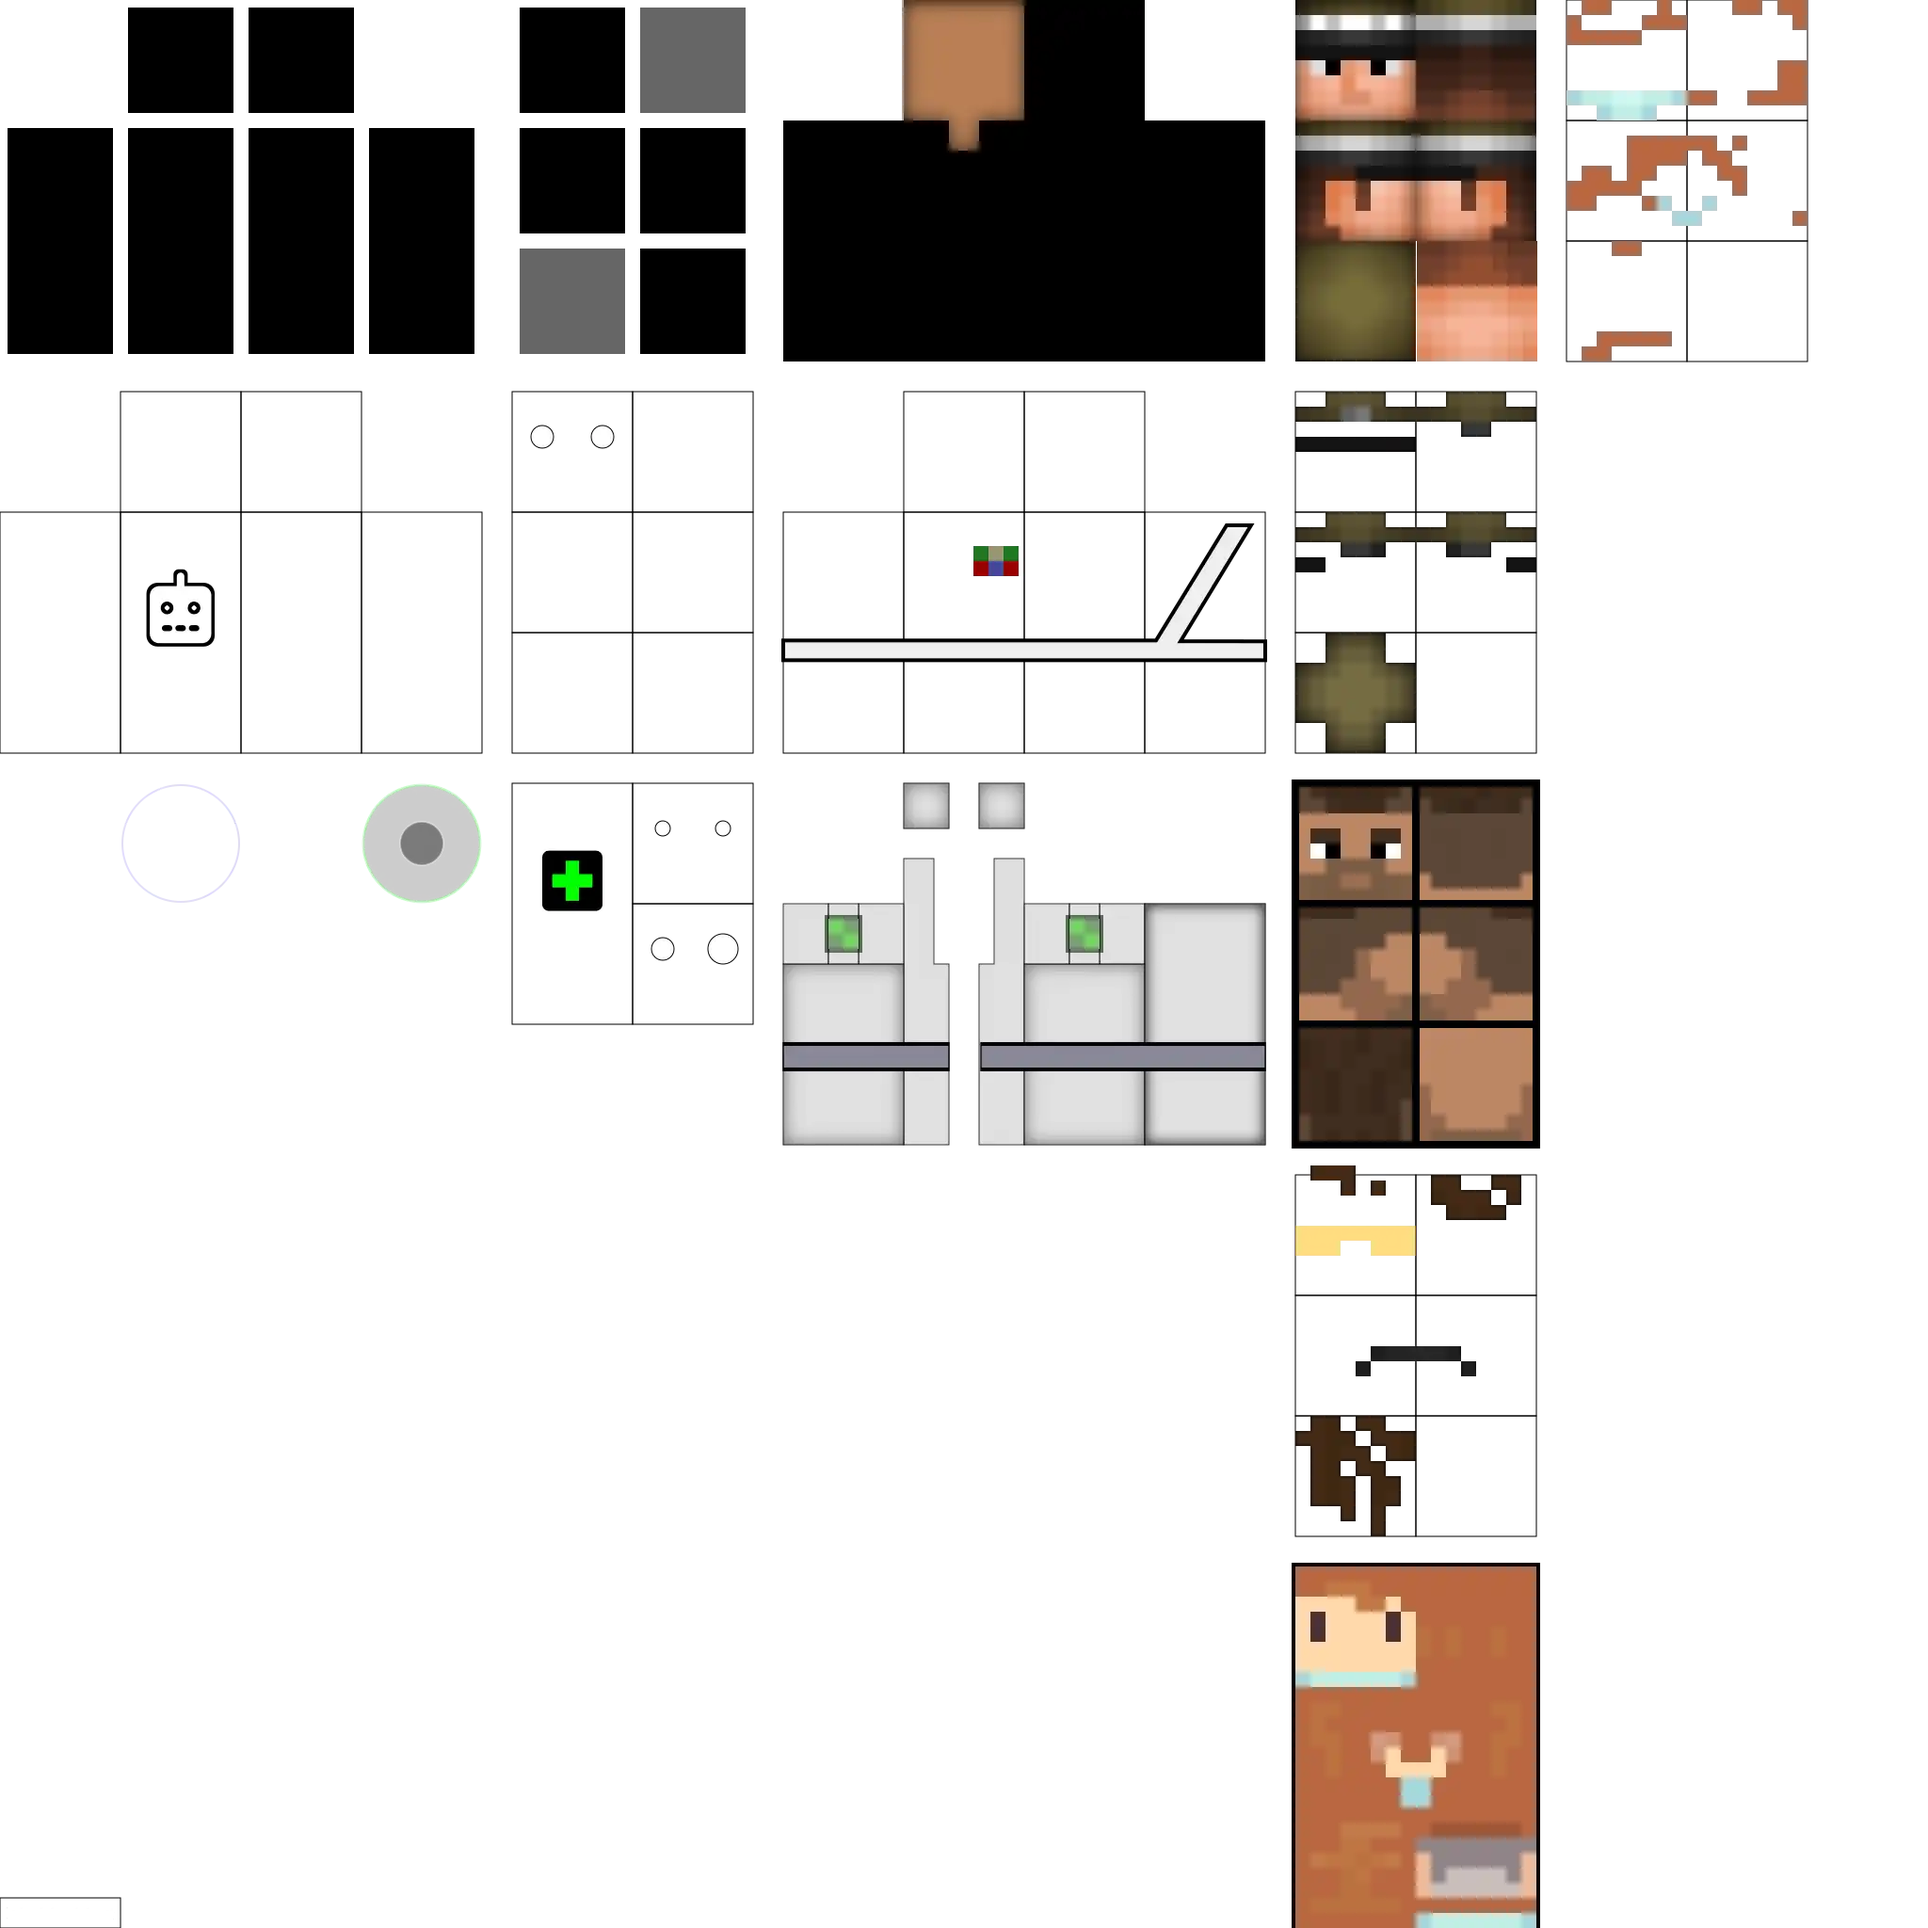
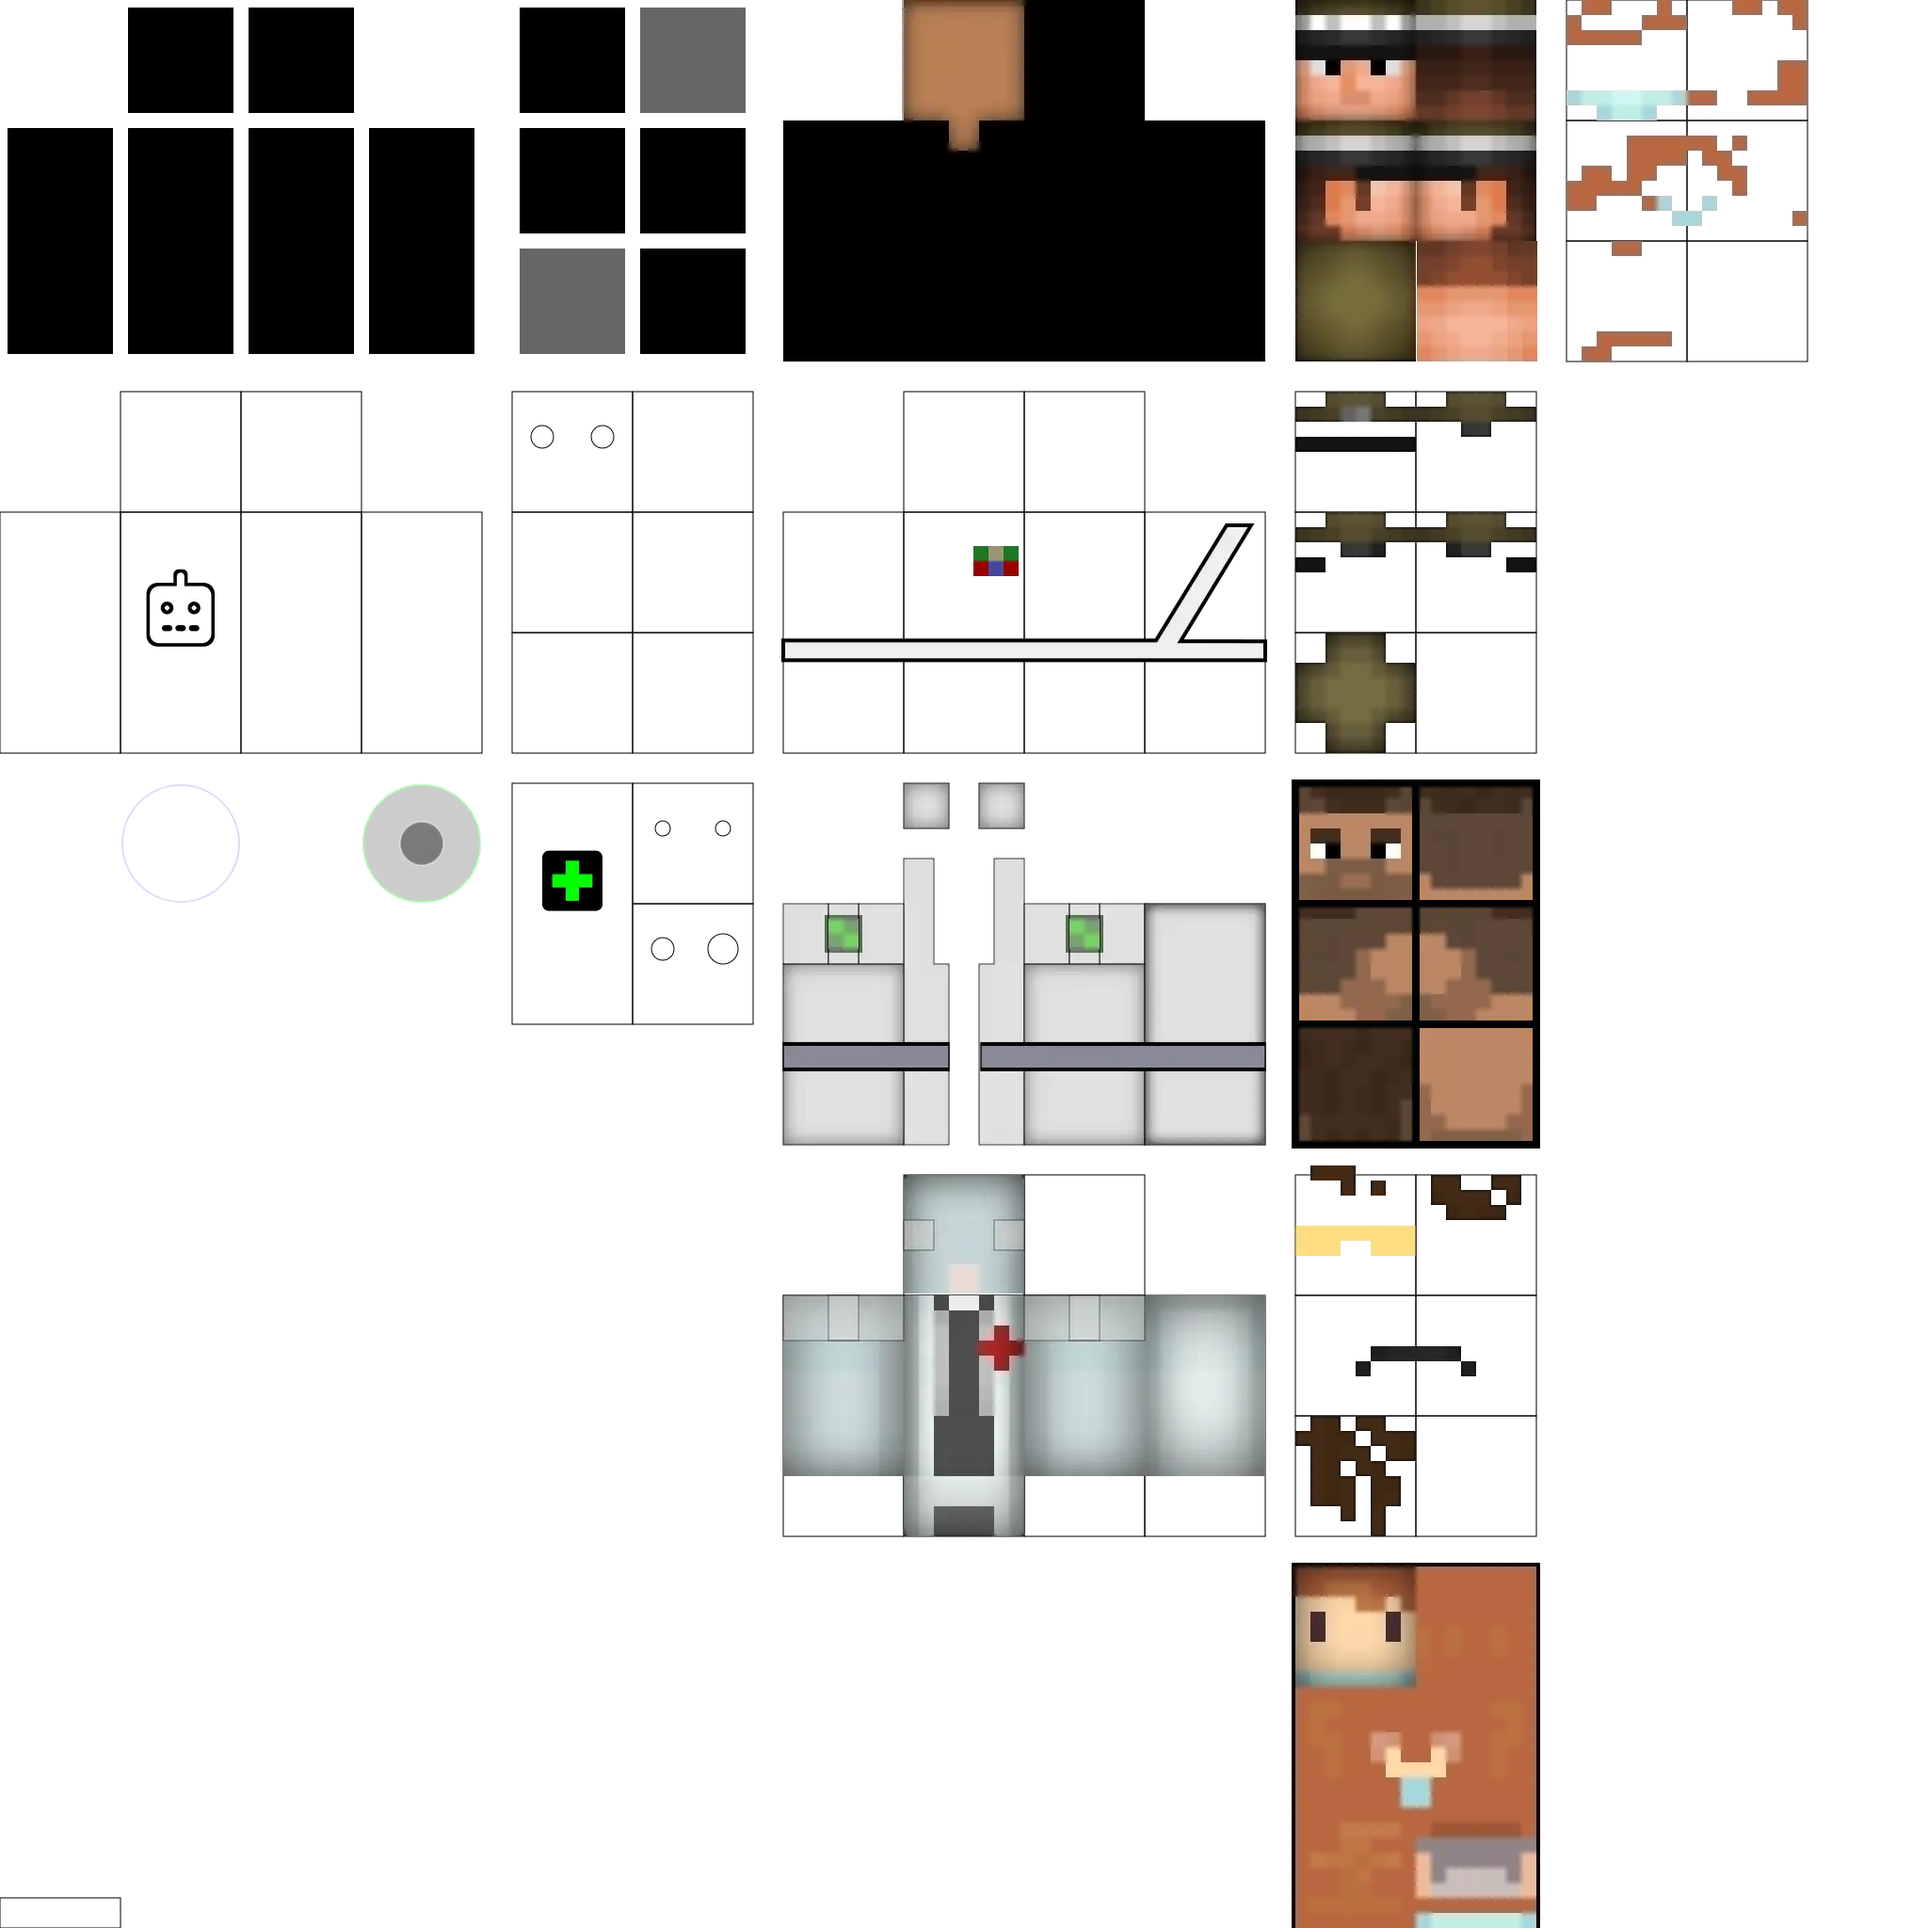
feat: migrated medic-0

Changed region(s): [[0.4062, 0.5938, 0.6562, 0.8125], [0.6562, 0.8125, 0.75, 0.875]]

diff --git a/docs/TODO.md b/docs/TODO.md
@@ -53,8 +53,9 @@
   - `w view.tween '{ fov: 30 }'` was jerky when eps was 1
 
 - 🚧 three more minecraft skin migrations (total 5)
-  - 🚧 medic
+  - ✅ medic
     - https://namemc.com/skin/194c3366860674c0
+  - 🚧 ...
 
 - 🚧 cleanup human-0 skin
   - ✅ Blender: overlay cuboids should be double-sided

diff --git a/README.md b/README.md
@@ -101,6 +101,8 @@ w n.rob.s | assign '{ tScale: { start: 0, dst: 0.1 } }'
 
 # pass from Vector3 to Vect for an internal function which only supports the latter
 click | map xz | w n.rob.getLookAngle -
+
+w view.controls | assign '{minDistance:1}'
 ```
 
 ## Working with a branch of `recast-navigation-js`
